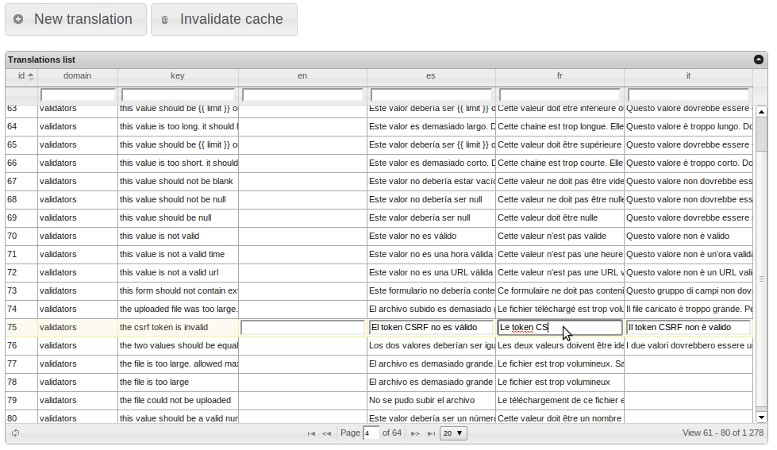
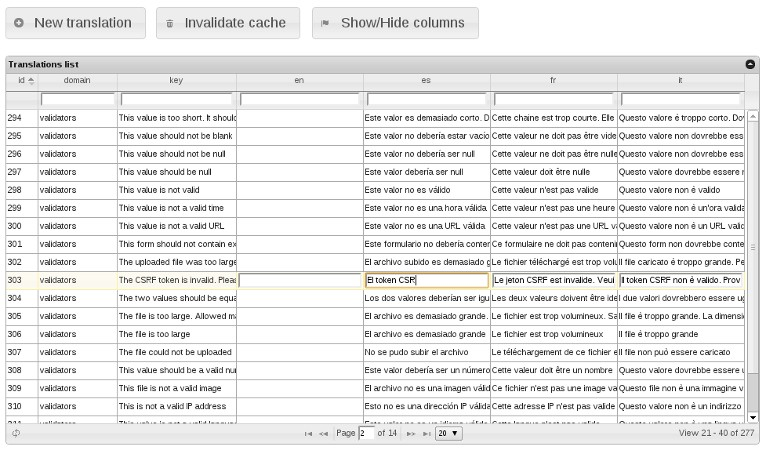
- refractor import command - add button to show/hide some columns in edit page - use yml for translations

diff --git a/Command/ImportTranslationsCommand.php b/Command/ImportTranslationsCommand.php
@@ -11,9 +11,6 @@ use Symfony\Component\Finder\Finder;
 use Symfony\Component\HttpKernel\Bundle\BundleInterface;
 use Symfony\Component\Translation\MessageCatalogueInterface;
 
-use Lexik\Bundle\TranslationBundle\Model\Translation;
-use Lexik\Bundle\TranslationBundle\Model\TransUnit;
-
 /**
  * Imports translation files content in the database.
  * Only imports files for locales defined in lexik_translation.managed_locales.
@@ -59,7 +56,7 @@ class ImportTranslationsCommand extends ContainerAwareCommand
      *
      * @param OutputInterface $output
      */
-    public function importAppTranslationFiles(OutputInterface $output, array $locales)
+    protected function importAppTranslationFiles(OutputInterface $output, array $locales)
     {
         $finder = $this->findTranslationsFiles($this->getApplication()->getKernel()->getRootDir(), $locales);
         $this->importTranslationFiles($finder, $output);
@@ -70,7 +67,7 @@ class ImportTranslationsCommand extends ContainerAwareCommand
      *
      * @param OutputInterface $output
      */
-    public function importBundlesTranslationFiles(OutputInterface $output, array $locales)
+    protected function importBundlesTranslationFiles(OutputInterface $output, array $locales)
     {
         $bundles = $this->getApplication()->getKernel()->getBundles();
 
@@ -90,9 +87,11 @@ class ImportTranslationsCommand extends ContainerAwareCommand
     protected function importTranslationFiles($finder, OutputInterface $output)
     {
         if ($finder instanceof Finder) {
+            $importer = $this->getContainer()->get('lexik_translation.importer.file_importer');
+
             foreach ($finder as $file)  {
                 $output->write(sprintf('<comment>Importing "%s" ... </comment>', $file->getPathname()));
-                $number = $this->importFile($file);
+                $number = $importer->import($file);
                 $output->writeln(sprintf('<comment>%d translations</comment>', $number));
             }
         } else {
@@ -119,49 +118,6 @@ class ImportTranslationsCommand extends ContainerAwareCommand
         }
 
         return $finder;
-    }
-
-    /**
-     * Import a translation file into the database and return the number of translations added.
-     *
-     * @param Symfony\Component\Finder\SplFileInfo $file
-     * @return int
-     */
-    protected function importFile(\Symfony\Component\Finder\SplFileInfo $file)
-    {
-        $imported = 0;
-        list($domain, $locale, $extention) = explode('.', $file->getFilename());
-        $serviceId = sprintf('translation.loader.%s', $extention);
-
-        if ($this->getContainer()->has($serviceId)) {
-            $objectManager = $this->getContainer()->get('lexik_translation.storage_manager');
-            $repository = $objectManager->getRepository($this->getContainer()->getParameter('lexik_translation.trans_unit.class'));
-            $transUnitManager = $this->getContainer()->get('lexik_translation.trans_unit.manager');
-
-            $loader = $this->getContainer()->get($serviceId);
-            $messageCatalogue = $loader->load($file->getPathname(), $locale, $domain);
-
-            foreach ($messageCatalogue->all() as $domainName => $messages) {
-                foreach ($messages as $key => $content) {
-                    $transUnit = $repository->findOneBy(array('key' => $key, 'domain' => $domainName));
-
-                    if (!($transUnit instanceof TransUnit)) {
-                        $transUnit = $transUnitManager->create($key, $domainName, true);
-                    } else {
-                        $objectManager->refresh($transUnit);
-                    }
-
-                    $translation = $transUnitManager->addTranslation($transUnit, $locale, $content);
-                    if ($translation instanceof Translation) {
-                        $imported++;
-                    }
-
-                    $objectManager->flush();
-                }
-            }
-        }
-
-        return $imported;
     }
 
     /**

diff --git a/Translation/Importer/FileImporter.php b/Translation/Importer/FileImporter.php
@@ -1,0 +1,89 @@
+<?php
+
+namespace Lexik\Bundle\TranslationBundle\Translation\Importer;
+
+use Doctrine\Common\Persistence\ObjectManager;
+
+use Lexik\Bundle\TranslationBundle\Model\TransUnit;
+use Lexik\Bundle\TranslationBundle\Model\Translation;
+use Lexik\Bundle\TranslationBundle\Translation\TransUnitManager;
+
+/**
+ * Import a translation file into the database.
+ *
+ * @author Cédric Girard <c.girard@lexik.fr>
+ */
+class FileImporter
+{
+    /**
+     * @var array
+     */
+    private $loaders;
+
+    /**
+     * @var octrine\Common\Persistence\ObjectManager
+     */
+    private $om;
+
+    /**
+     * @var Lexik\Bundle\TranslationBundle\Translation\TransUnitManager
+     */
+    private $transUnitManager;
+
+    /**
+     * Construct.
+     *
+     * @param array $loaders
+     * @param ObjectManager $om
+     * @param TransUnitManager $transUnitManager
+     */
+    public function __construct(array $loaders, ObjectManager $om, TransUnitManager $transUnitManager)
+    {
+        $this->loaders = $loaders;
+        $this->om = $om;
+        $this->transUnitManager = $transUnitManager;
+    }
+
+    /**
+     * Impoort the given file and return the number of inserted translations.
+     *
+     * @param \Symfony\Component\Finder\SplFileInfo $file
+     * @return int
+     */
+    public function import(\Symfony\Component\Finder\SplFileInfo $file)
+    {
+        $imported = 0;
+        list($domain, $locale, $extention) = explode('.', $file->getFilename());
+        $serviceId = sprintf('translation.loader.%s', $extention);
+
+        if (isset($this->loaders[$serviceId])) {
+            $repository = $this->transUnitManager->getTransUnitRepository();
+
+            $loader = $this->loaders[$serviceId];
+            $messageCatalogue = $loader->load($file->getPathname(), $locale, $domain);
+
+            foreach ($messageCatalogue->all() as $domainName => $messages) {
+                foreach ($messages as $key => $content) {
+                    $transUnit = $repository->findOneBy(array('key' => $key, 'domain' => $domainName));
+
+                    if (!($transUnit instanceof TransUnit)) {
+                        $transUnit = $this->transUnitManager->create($key, $domainName);
+                    } else {
+                        $this->om->refresh($transUnit);
+                    }
+
+                    $translation = $this->transUnitManager->addTranslation($transUnit, $locale, $content);
+                    if ($translation instanceof Translation) {
+                        $imported++;
+                    }
+
+                    $this->om->flush();
+                }
+
+                $this->om->clear();
+            }
+        }
+
+        return $imported;
+    }
+}

diff --git a/DependencyInjection/Compiler/TranslatorPass.php b/DependencyInjection/Compiler/TranslatorPass.php
@@ -4,9 +4,10 @@ namespace Lexik\Bundle\TranslationBundle\DependencyInjection\Compiler;
 
 use Symfony\Component\DependencyInjection\ContainerBuilder;
 use Symfony\Component\DependencyInjection\Compiler\CompilerPassInterface;
+use Symfony\Component\DependencyInjection\Reference;
 
 /**
- * Translator compiler pass to automatically pass loader to the translator service.
+ * Translator compiler pass to automatically pass loader to the other services.
  *
  * @author Cédric Girard <c.girard@lexik.fr>
  */
@@ -14,13 +15,20 @@ class TranslatorPass implements CompilerPassInterface
 {
     public function process(ContainerBuilder $container)
     {
-        if ($container->hasDefinition('lexik_translation.translator')) {
-            $loaders = array();
-            foreach ($container->findTaggedServiceIds('translation.loader') as $id => $attributes) {
-                $loaders[$id] = $attributes[0]['alias'];
-            }
+        $loaders = array();
+        $loadersIds = array();
 
-            $container->findDefinition('lexik_translation.translator')->replaceArgument(2, $loaders);
+        foreach ($container->findTaggedServiceIds('translation.loader') as $id => $attributes) {
+            $loaders[$id] = new Reference($id);
+            $loadersIds[$id] = $attributes[0]['alias'];
+        }
+
+        if ($container->hasDefinition('lexik_translation.translator')) {
+            $container->findDefinition('lexik_translation.translator')->replaceArgument(2, $loadersIds);
+        }
+
+        if ($container->hasDefinition('lexik_translation.importer.file_importer')) {
+            $container->findDefinition('lexik_translation.importer.file_importer')->replaceArgument(0, $loaders);
         }
     }
 }

diff --git a/Translation/TransUnitManager.php b/Translation/TransUnitManager.php
@@ -148,4 +148,14 @@ class TransUnitManager
 
         return $translation;
     }
+
+    /**
+     * Return the TransUnit repository.
+     *
+     * @return ObjectRepository
+     */
+    public function getTransUnitRepository()
+    {
+        return $this->objectManager->getRepository($this->transUnitclass);
+    }
 }
